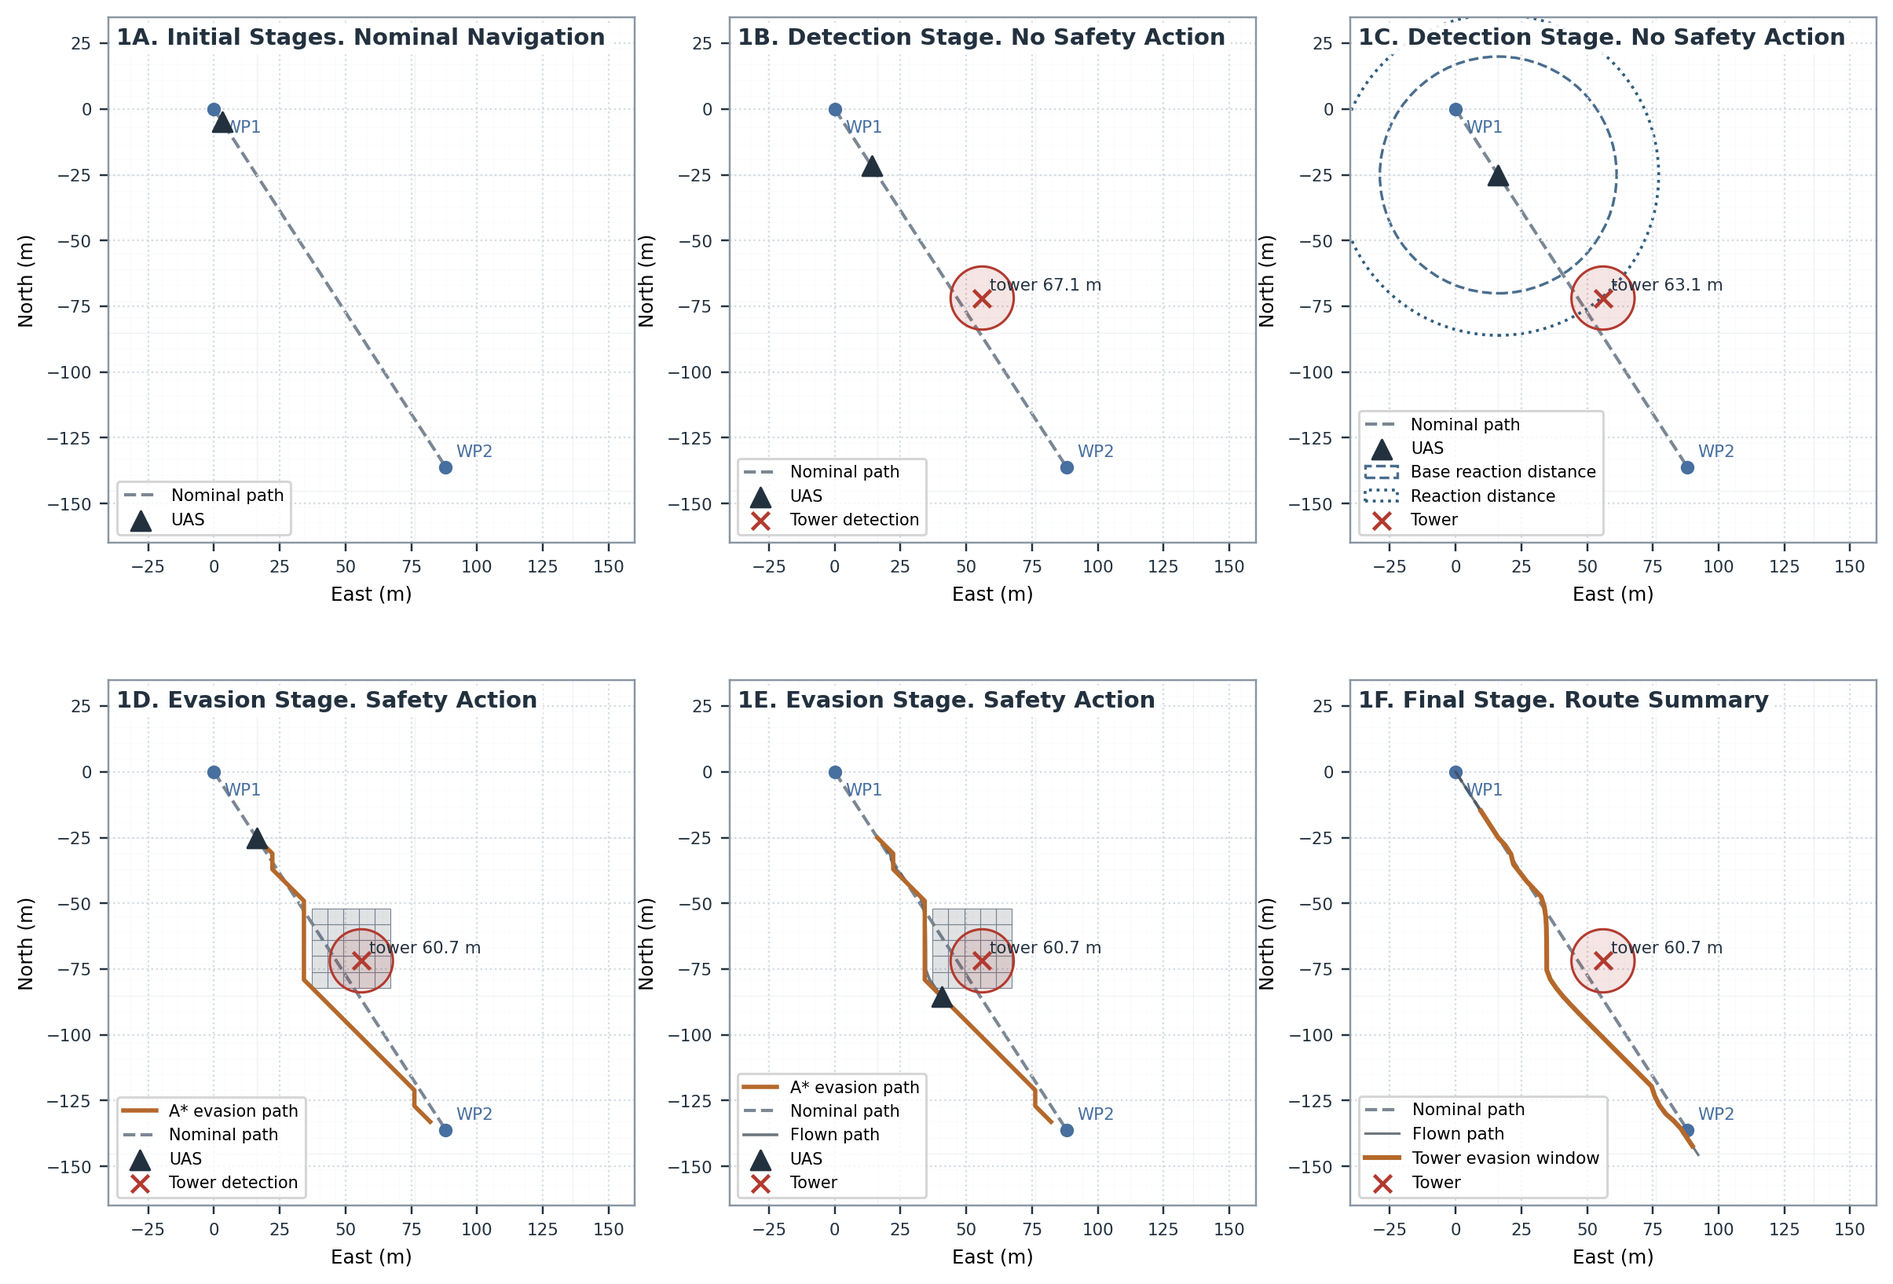
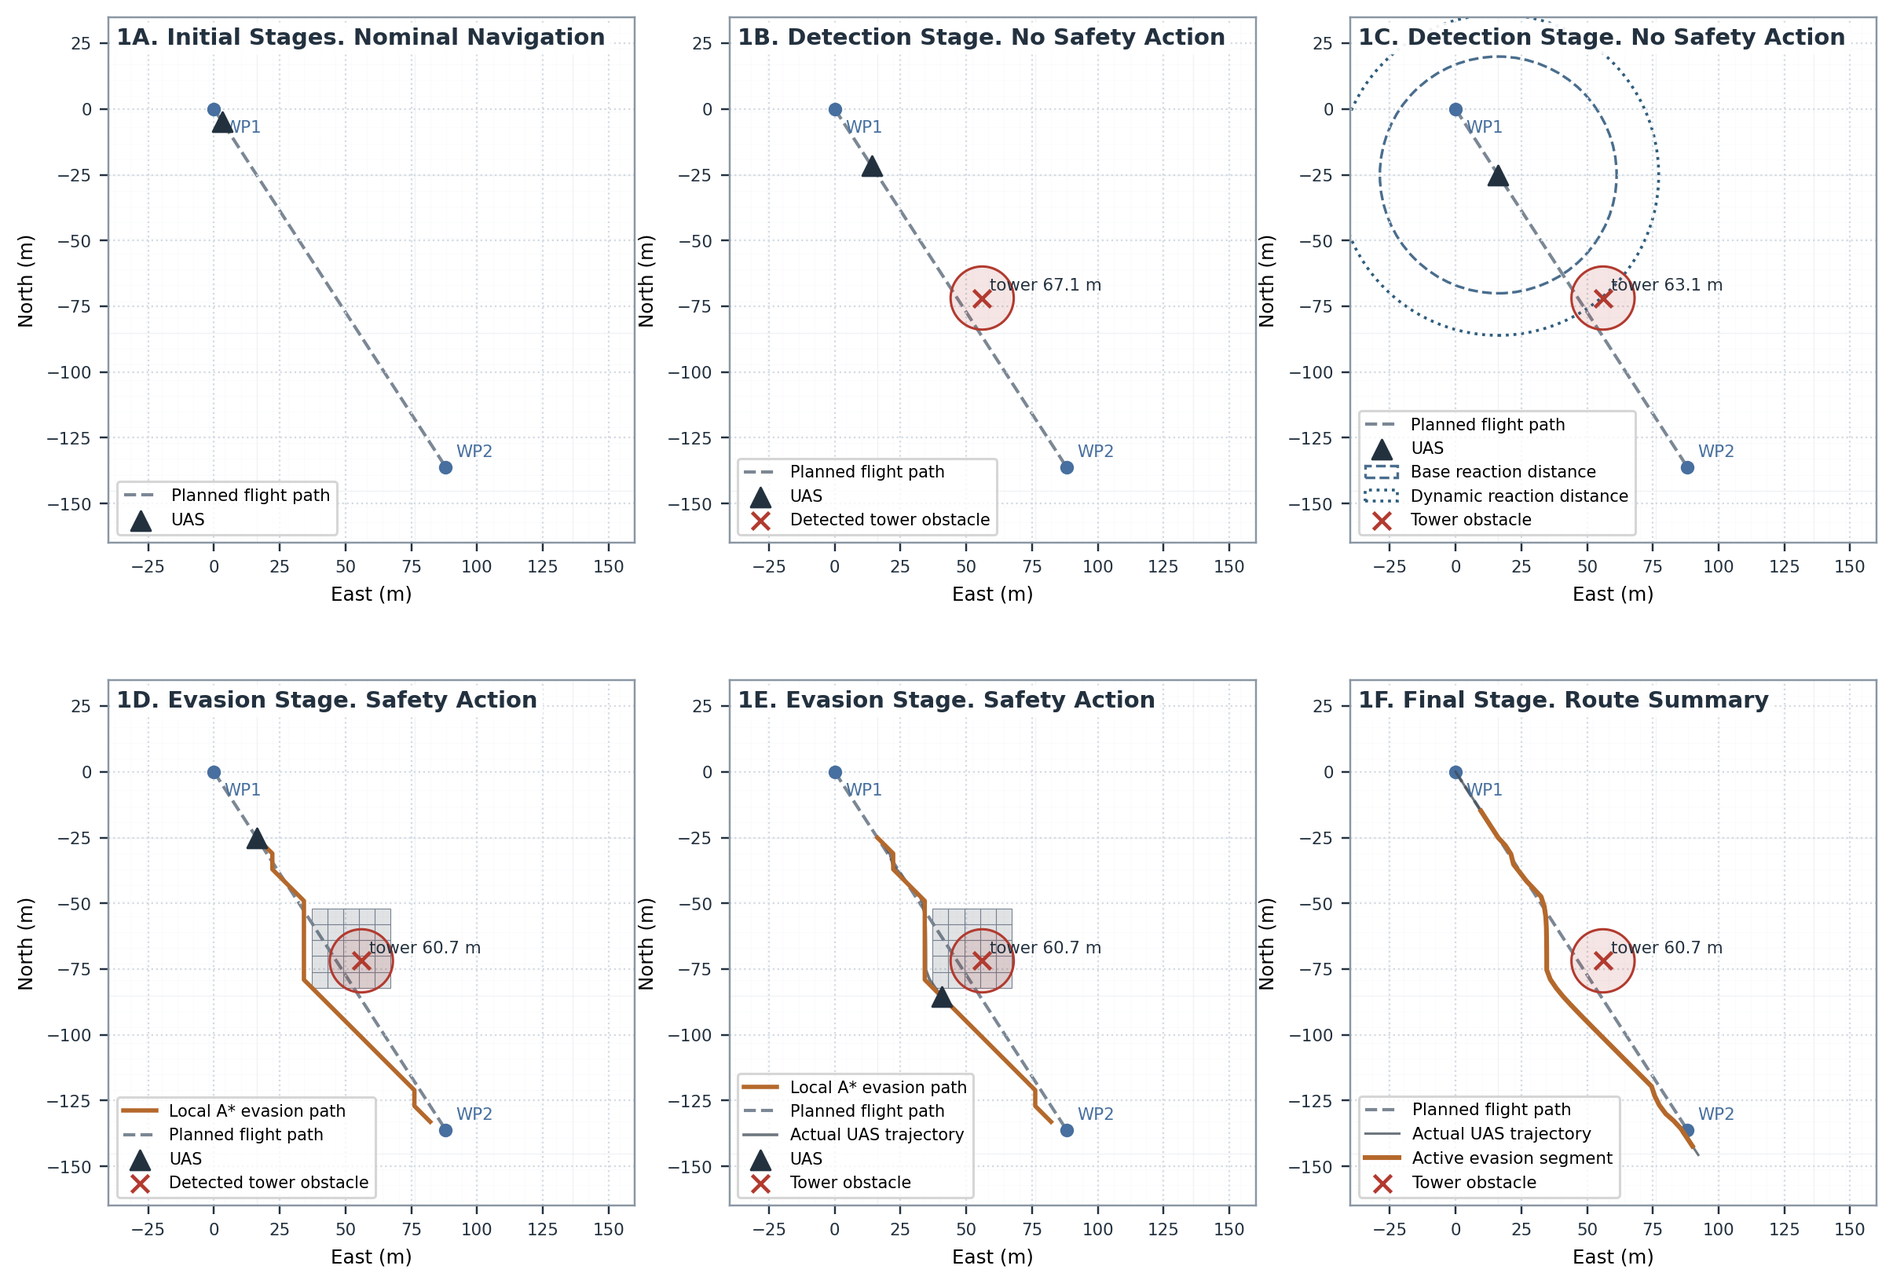
Align figure legends with paper terminology

diff --git a/figuras_paper_unreal_generadas/generate_paper_figures.py b/figuras_paper_unreal_generadas/generate_paper_figures.py
@@ -43,6 +43,17 @@ TOWER = "#b23a2f"
 BIKE = "#256f8f"
 GRID = "#d4dbe2"
 
+LABEL_PLANNED_PATH = "Planned flight path"
+LABEL_ACTUAL_TRAJECTORY = "Actual UAS trajectory"
+LABEL_LOCAL_EVASION_PATH = "Local A* evasion path"
+LABEL_ACTIVE_EVASION = "Active evasion segment"
+LABEL_UAS = "UAS"
+LABEL_DETECTED_TOWER = "Detected tower obstacle"
+LABEL_TOWER = "Tower obstacle"
+LABEL_DYNAMIC_REACTION = "Dynamic reaction distance"
+LABEL_BASE_REACTION = "Base reaction distance"
+LABEL_PELOTON_POSITIONS = "Peloton positions over time"
+
 FIG1_XLIM = (-40.0, 160.0)
 FIG1_YLIM = (-165.0, 35.0)
 FIG1_PANEL_FIGSIZE = (5.8, 5.8)
@@ -197,7 +208,7 @@ def draw_unreal_panel(ax, image_path: Path | None, panel: str, title: str, note:
     )
 
 
-def plot_mission(ax, mission_xy: np.ndarray, label: str = "Nominal path") -> None:
+def plot_mission(ax, mission_xy: np.ndarray, label: str = LABEL_PLANNED_PATH) -> None:
     ax.plot(mission_xy[:, 0], mission_xy[:, 1], "--", color=NOMINAL, linewidth=1.2, label=label, zorder=1)
     plotted_labels: dict[tuple[float, float], list[str]] = {}
     for i, (x, y) in enumerate(mission_xy):
@@ -220,7 +231,7 @@ def mission_xy_for_ref(lat_ref: float, lon_ref: float, mission: list[dict]) -> n
 def plot_wp1_wp2_segment(ax, mission: list[dict], lat_ref: float, lon_ref: float) -> np.ndarray:
     idxs = [1, 2]
     pts = np.array([latlon_to_enu(lat_ref, lon_ref, mission[i]["lat"], mission[i]["lon"]) for i in idxs])
-    ax.plot(pts[:, 0], pts[:, 1], "--", color=NOMINAL, linewidth=1.35, label="Nominal path", zorder=1)
+    ax.plot(pts[:, 0], pts[:, 1], "--", color=NOMINAL, linewidth=1.35, label=LABEL_PLANNED_PATH, zorder=1)
     ax.scatter(pts[:, 0], pts[:, 1], s=22, color="#476f9f", zorder=2)
     for idx, (x, y) in zip(idxs, pts):
         dy = -9 if idx == 1 else 4
@@ -362,7 +373,7 @@ def draw_grid(
             )
         )
     if route_xy:
-        ax.plot([p[0] for p in route_xy], [p[1] for p in route_xy], color=EVASION, linewidth=1.8, zorder=5, label="A* evasion path")
+        ax.plot([p[0] for p in route_xy], [p[1] for p in route_xy], color=EVASION, linewidth=1.8, zorder=5, label=LABEL_LOCAL_EVASION_PATH)
 
 def select_unique_obstacle(obs: list[dict]) -> list[dict]:
     valid = [item for item in obs if math.isfinite(float(item.get("distance", float("nan"))))]
@@ -373,12 +384,12 @@ def select_unique_obstacle(obs: list[dict]) -> list[dict]:
 def add_grid_background(ax, origin_xy: tuple[float, float] = (0.0, 0.0)) -> None:
     draw_grid(ax, set(), [], [], origin_xy=origin_xy)
 
-def plot_local_mission(ax, mission: list[dict], lat_ref: float, lon_ref: float, label: str = "Nominal path") -> np.ndarray:
+def plot_local_mission(ax, mission: list[dict], lat_ref: float, lon_ref: float, label: str = LABEL_PLANNED_PATH) -> np.ndarray:
     mission_xy = mission_xy_for_ref(lat_ref, lon_ref, mission)
     plot_mission(ax, mission_xy, label=label)
     return mission_xy
 
-def add_uas(ax, label: str = "UAS") -> None:
+def add_uas(ax, label: str = LABEL_UAS) -> None:
     ax.scatter([0], [0], marker="^", s=65, color=INK, zorder=9, label=label)
 
 def prepare_static_context() -> dict:
@@ -502,7 +513,7 @@ def build_static_figure() -> dict:
         add_grid_background(ax, origin_xy=plan_origin_xy)
         plot_wp1_wp2_segment(ax, mission, d["lat_ref"], d["lon_ref"])
         init_xy = latlon_to_enu(d["lat_ref"], d["lon_ref"], float(init_row["lat"]), float(init_row["lon"]))
-        ax.scatter([init_xy[0]], [init_xy[1]], marker="^", s=65, color=INK, zorder=9, label="UAS")
+        ax.scatter([init_xy[0]], [init_xy[1]], marker="^", s=65, color=INK, zorder=9, label=LABEL_UAS)
         draw_label(ax, "1A", "Initial Stages. Nominal Navigation")
         style_ax(ax)
         apply_figure1_view(ax)
@@ -511,7 +522,7 @@ def build_static_figure() -> dict:
     def draw_detection(ax, panel: str, with_reaction_radii: bool, evt: dict, xy: tuple[float, float], obs: list[dict]) -> None:
         add_grid_background(ax, origin_xy=plan_origin_xy)
         plot_wp1_wp2_segment(ax, mission, d["lat_ref"], d["lon_ref"])
-        ax.scatter([xy[0]], [xy[1]], marker="^", s=65, color=INK, zorder=9, label="UAS")
+        ax.scatter([xy[0]], [xy[1]], marker="^", s=65, color=INK, zorder=9, label=LABEL_UAS)
         if with_reaction_radii:
             ax.add_patch(
                 patches.Circle(
@@ -521,7 +532,7 @@ def build_static_figure() -> dict:
                     linestyle="--",
                     edgecolor="#496d8d",
                     linewidth=1.1,
-                    label="Base reaction distance",
+                    label=LABEL_BASE_REACTION,
                 )
             )
             ax.add_patch(
@@ -532,10 +543,10 @@ def build_static_figure() -> dict:
                     linestyle=":",
                     edgecolor="#2f5d7c",
                     linewidth=1.2,
-                    label="Reaction distance",
+                    label=LABEL_DYNAMIC_REACTION,
                 )
             )
-        draw_obstacles(ax, obs, TOWER, radius=True, label="Tower detection" if not with_reaction_radii else "Tower")
+        draw_obstacles(ax, obs, TOWER, radius=True, label=LABEL_DETECTED_TOWER if not with_reaction_radii else LABEL_TOWER)
         draw_label(ax, panel, "Detection Stage. No Safety Action")
         style_ax(ax)
         apply_figure1_view(ax)
@@ -546,8 +557,8 @@ def build_static_figure() -> dict:
         plot_wp1_wp2_segment(ax, mission, d["lat_ref"], d["lon_ref"])
         if show_flown:
             flown = traj[(traj["ts"] >= float(evasion_evt["ts"])) & (traj["ts"] <= float(d["mid_evasion_row"]["ts"]))]
-            ax.plot(flown["east"], flown["north"], color=FLOWN, linewidth=1.2, alpha=0.75, label="Flown path")
-        ax.scatter([uas_xy[0]], [uas_xy[1]], marker="^", s=65, color=INK, zorder=9, label="UAS")
+            ax.plot(flown["east"], flown["north"], color=FLOWN, linewidth=1.2, alpha=0.75, label=LABEL_ACTUAL_TRAJECTORY)
+        ax.scatter([uas_xy[0]], [uas_xy[1]], marker="^", s=65, color=INK, zorder=9, label=LABEL_UAS)
         draw_obstacles(ax, eva_obs, TOWER, radius=True, label=tower_label)
         draw_label(ax, panel, "Evasion Stage. Safety Action")
         style_ax(ax)
@@ -557,11 +568,11 @@ def build_static_figure() -> dict:
     def draw_summary(ax) -> None:
         add_grid_background(ax, origin_xy=plan_origin_xy)
         plot_wp1_wp2_segment(ax, mission, d["lat_ref"], d["lon_ref"])
-        ax.plot(traj["east"], traj["north"], color=FLOWN, linewidth=1.0, alpha=0.75, label="Flown path")
+        ax.plot(traj["east"], traj["north"], color=FLOWN, linewidth=1.0, alpha=0.75, label=LABEL_ACTUAL_TRAJECTORY)
         tower_window = traj[(traj["ts"] >= float(evasion_evt["ts"]) - 2) & (traj["ts"] <= float(d["completion_evt"]["ts"]) + 2)]
         if len(tower_window):
-            ax.plot(tower_window["east"], tower_window["north"], color=EVASION, linewidth=2.0, label="Tower evasion window")
-        draw_obstacles(ax, eva_obs, TOWER, radius=True, label="Tower")
+            ax.plot(tower_window["east"], tower_window["north"], color=EVASION, linewidth=2.0, label=LABEL_ACTIVE_EVASION)
+        draw_obstacles(ax, eva_obs, TOWER, radius=True, label=LABEL_TOWER)
         draw_label(ax, "1F", "Final Stage. Route Summary")
         style_ax(ax)
         apply_figure1_view(ax)
@@ -570,8 +581,8 @@ def build_static_figure() -> dict:
     draw_nominal(ax1)
     draw_detection(ax2, "1B", with_reaction_radii=False, evt=detect_evt, xy=d["detect_xy"], obs=det_obs)
     draw_detection(ax3, "1C", with_reaction_radii=True, evt=d["detection_detail_evt"], xy=d["detect_detail_xy"], obs=d["det_detail_obs"])
-    draw_evasion(ax4, "1D", "Tower detection", plan_origin_xy)
-    draw_evasion(ax5, "1E", "Tower", d["mid_evasion_xy"], show_flown=True)
+    draw_evasion(ax4, "1D", LABEL_DETECTED_TOWER, plan_origin_xy)
+    draw_evasion(ax5, "1E", LABEL_TOWER, d["mid_evasion_xy"], show_flown=True)
     draw_summary(ax6)
 
     out = OUT / "figure_1_static_tower_multipanel.png"
@@ -634,19 +645,19 @@ def build_moving_figure() -> dict:
 
     plot_mission(ax2, mission_xy)
     local = traj[(traj["ts"] >= float(route_evt["ts"]) - 6) & (traj["ts"] <= float(route_evt["ts"]) + 25)]
-    ax2.plot(local["east"], local["north"], color=FLOWN, linewidth=1.2, label="UAS path")
+    ax2.plot(local["east"], local["north"], color=FLOWN, linewidth=1.2, label=LABEL_ACTUAL_TRAJECTORY)
     if snapshots:
-        sc = ax2.scatter([s["east"] for s in snapshots], [s["north"] for s in snapshots], c=[s["t"] for s in snapshots], cmap="viridis", s=28, marker="x", label="Peloton ghost positions", zorder=8)
+        sc = ax2.scatter([s["east"] for s in snapshots], [s["north"] for s in snapshots], c=[s["t"] for s in snapshots], cmap="viridis", s=28, marker="x", label=LABEL_PELOTON_POSITIONS, zorder=8)
         plt.colorbar(sc, ax=ax2, fraction=0.045, pad=0.02).set_label("t rel. (s)", fontsize=7)
     draw_label(ax2, "2B", "UAS and Peloton Motion")
     style_ax(ax2)
     ax2.legend(loc="lower right", fontsize=7)
 
     plot_mission(ax3, mission_xy)
-    ax3.plot(local["east"], local["north"], color=FLOWN, linewidth=1.0, alpha=0.7, label="Flown path")
+    ax3.plot(local["east"], local["north"], color=FLOWN, linewidth=1.0, alpha=0.7, label=LABEL_ACTUAL_TRAJECTORY)
     active = local[local["evasion_active"] == 1]
     if len(active):
-        ax3.plot(active["east"], active["north"], color=EVASION, linewidth=2.0, label="PORCE active")
+        ax3.plot(active["east"], active["north"], color=EVASION, linewidth=2.0, label=LABEL_ACTIVE_EVASION)
     if snapshots:
         sc2 = ax3.scatter([s["east"] for s in snapshots], [s["north"] for s in snapshots], c=[s["t"] for s in snapshots], cmap="viridis", s=18, marker="x", alpha=0.7, zorder=7)
     draw_label(ax3, "2C", "Moving Obstacle Evasion Summary")

diff --git a/figuras_paper_unreal_generadas/generate_figure1_separate_panels.py b/figuras_paper_unreal_generadas/generate_figure1_separate_panels.py
@@ -63,7 +63,7 @@ def main() -> None:
     init_row = early.iloc[-1] if len(early) else d["det_row"]
     _base_panel(ax, d)
     init_xy = g.latlon_to_enu(d["lat_ref"], d["lon_ref"], float(init_row["lat"]), float(init_row["lon"]))
-    ax.scatter([init_xy[0]], [init_xy[1]], marker="^", s=65, color=g.INK, zorder=9, label="UAS")
+    ax.scatter([init_xy[0]], [init_xy[1]], marker="^", s=65, color=g.INK, zorder=9, label=g.LABEL_UAS)
     g.draw_label(ax, "1A", "Initial Stages. Nominal Navigation")
     g.style_ax(ax)
     g.apply_figure1_view(ax)
@@ -72,8 +72,8 @@ def main() -> None:
 
     fig, ax = plt.subplots(figsize=g.FIG1_PANEL_FIGSIZE)
     _base_panel(ax, d)
-    ax.scatter([d["detect_xy"][0]], [d["detect_xy"][1]], marker="^", s=65, color=g.INK, zorder=9, label="UAS")
-    g.draw_obstacles(ax, d["det_obs"], g.TOWER, radius=True, label="Tower detection")
+    ax.scatter([d["detect_xy"][0]], [d["detect_xy"][1]], marker="^", s=65, color=g.INK, zorder=9, label=g.LABEL_UAS)
+    g.draw_obstacles(ax, d["det_obs"], g.TOWER, radius=True, label=g.LABEL_DETECTED_TOWER)
     g.draw_label(ax, "1B", "Detection Stage. No Safety Action")
     g.style_ax(ax)
     g.apply_figure1_view(ax)
@@ -83,7 +83,7 @@ def main() -> None:
     fig, ax = plt.subplots(figsize=g.FIG1_PANEL_FIGSIZE)
     _base_panel(ax, d)
     det_xy = d["detect_detail_xy"]
-    ax.scatter([det_xy[0]], [det_xy[1]], marker="^", s=60, color=g.INK, zorder=8, label="UAS")
+    ax.scatter([det_xy[0]], [det_xy[1]], marker="^", s=60, color=g.INK, zorder=8, label=g.LABEL_UAS)
     ax.add_patch(
         plt.Circle(
             det_xy,
@@ -92,7 +92,7 @@ def main() -> None:
             linestyle="--",
             edgecolor="#496d8d",
             linewidth=1.1,
-            label="Base reaction distance",
+            label=g.LABEL_BASE_REACTION,
         )
     )
     ax.add_patch(
@@ -103,10 +103,10 @@ def main() -> None:
             linestyle=":",
             edgecolor="#2f5d7c",
             linewidth=1.2,
-            label="Reaction distance",
+            label=g.LABEL_DYNAMIC_REACTION,
         )
     )
-    g.draw_obstacles(ax, d["det_detail_obs"], g.TOWER, radius=True, label="Tower")
+    g.draw_obstacles(ax, d["det_detail_obs"], g.TOWER, radius=True, label=g.LABEL_TOWER)
     g.draw_label(ax, "1C", "Detection Stage. No Safety Action")
     g.style_ax(ax)
     g.apply_figure1_view(ax)
@@ -115,8 +115,8 @@ def main() -> None:
 
     fig, ax = plt.subplots(figsize=g.FIG1_PANEL_FIGSIZE)
     _base_panel(ax, d, route=True)
-    ax.scatter([d["plan_origin_xy"][0]], [d["plan_origin_xy"][1]], marker="^", s=65, color=g.INK, zorder=9, label="UAS")
-    g.draw_obstacles(ax, d["eva_obs"], g.TOWER, radius=True, label="Tower detection")
+    ax.scatter([d["plan_origin_xy"][0]], [d["plan_origin_xy"][1]], marker="^", s=65, color=g.INK, zorder=9, label=g.LABEL_UAS)
+    g.draw_obstacles(ax, d["eva_obs"], g.TOWER, radius=True, label=g.LABEL_DETECTED_TOWER)
     g.draw_label(ax, "1D", "Evasion Stage. Safety Action")
     g.style_ax(ax)
     g.apply_figure1_view(ax)
@@ -126,9 +126,9 @@ def main() -> None:
     fig, ax = plt.subplots(figsize=g.FIG1_PANEL_FIGSIZE)
     _base_panel(ax, d, route=True)
     flown = traj[(traj["ts"] >= float(d["evasion_evt"]["ts"])) & (traj["ts"] <= float(d["mid_evasion_row"]["ts"]))]
-    ax.plot(flown["east"], flown["north"], color=g.FLOWN, linewidth=1.2, alpha=0.75, label="Flown path")
-    ax.scatter([d["mid_evasion_xy"][0]], [d["mid_evasion_xy"][1]], marker="^", s=65, color=g.INK, zorder=9, label="UAS")
-    g.draw_obstacles(ax, d["eva_obs"], g.TOWER, radius=True, label="Tower")
+    ax.plot(flown["east"], flown["north"], color=g.FLOWN, linewidth=1.2, alpha=0.75, label=g.LABEL_ACTUAL_TRAJECTORY)
+    ax.scatter([d["mid_evasion_xy"][0]], [d["mid_evasion_xy"][1]], marker="^", s=65, color=g.INK, zorder=9, label=g.LABEL_UAS)
+    g.draw_obstacles(ax, d["eva_obs"], g.TOWER, radius=True, label=g.LABEL_TOWER)
     g.draw_label(ax, "1E", "Evasion Stage. Safety Action")
     g.style_ax(ax)
     g.apply_figure1_view(ax)
@@ -137,11 +137,11 @@ def main() -> None:
 
     fig, ax = plt.subplots(figsize=g.FIG1_PANEL_FIGSIZE)
     _base_panel(ax, d)
-    ax.plot(traj["east"], traj["north"], color=g.FLOWN, linewidth=1.0, alpha=0.75, label="Flown path")
+    ax.plot(traj["east"], traj["north"], color=g.FLOWN, linewidth=1.0, alpha=0.75, label=g.LABEL_ACTUAL_TRAJECTORY)
     tower_window = traj[(traj["ts"] >= float(d["evasion_evt"]["ts"]) - 2) & (traj["ts"] <= float(d["completion_evt"]["ts"]) + 2)]
     if len(tower_window):
-        ax.plot(tower_window["east"], tower_window["north"], color=g.EVASION, linewidth=2.0, label="Tower evasion window")
-    g.draw_obstacles(ax, d["eva_obs"], g.TOWER, radius=True, label="Tower")
+        ax.plot(tower_window["east"], tower_window["north"], color=g.EVASION, linewidth=2.0, label=g.LABEL_ACTIVE_EVASION)
+    g.draw_obstacles(ax, d["eva_obs"], g.TOWER, radius=True, label=g.LABEL_TOWER)
     g.draw_label(ax, "1F", "Final Stage. Route Summary")
     g.style_ax(ax)
     g.apply_figure1_view(ax)

diff --git a/figuras_paper_unreal_generadas/README.md b/figuras_paper_unreal_generadas/README.md
@@ -16,12 +16,9 @@ Esta carpeta contiene las figuras compuestas pedidas en la conversacion.
 
 - `tools/make_viz_gif_manual.py` no crea el multipanel: crea un GIF a partir de `pipeline/logs/viz_frames/frame_*.png`.
 - El multipanel historico se generaba en `generate_paper_assets.py`, funcion `build_six_stage_sequence_figure(...)`.
-- La Figura 1 generada aqui usa un episodio continuo WP1->WP2 con una unica torre del run `pipeline/logs/paper_wp1_wp2_tower/paper_wp1_wp2_tower_p0.56_l+8.0_20260617_120539`.
-- La torre usada esta en `lat=42.22904865463611`, `lon=-1.234404232738992`, progreso `0.56` del tramo WP1->WP2 y desplazamiento lateral `+8 m`.
-- Orden activo de lectura: `1A` navegacion nominal, `1B` deteccion sin accion cerca del umbral, `1C` ultima deteccion sin accion con radios, `1D` inicio de evasion A*, `1E` evasion en curso, `1F` resumen final de ruta.
+- La Figura 1 generada aqui usa un episodio continuo con torre del run `20260220_112052`; todos los paneles corresponden a la misma torre y se ordenan como secuencia temporal.
+- Orden activo de lectura: `1A` navegacion nominal, `1B` deteccion sin accion, `1C` detalle de deteccion con radios, `1D` evasion activa, `1E` detalle/grid de evasion, `1F` resumen final de ruta.
 - Decision actual: los seis paneles de Figura 1 deben ser cenitales/top-down, con el grid real `81 x 81` superpuesto y deteccion unica de torre. `1B` y `1C` ya no deben ser capturas oblicuas Unreal/HUD.
-- Los seis paneles usan el mismo encuadre fijo activo: eje X `[-40, 160]` m y eje Y `[-165, 35]` m, con las mismas etiquetas `East (m)` y `North (m)`. Es un encuadre cuadrado `1:1` de 200 m x 200 m centrado en el tramo WP1->WP2, con mas aire por encima de WP1 y menos espacio muerto bajo WP2.
-- `1B` usa una deteccion sin accion a `67.1 m`; `1C` usa la ultima deteccion sin accion a `63.1 m`, justo antes de generar la evasion al cruzar `reaction_distance_eval_m=61 m`.
-- Validacion del run: `accepted_types=["tower"]`, `clean_detection_count=9`, `valid_plan_count=1`, `valid_completion_count=1`, `failure_count=0`, evasion activa de progreso `0.2085` a `0.9412` antes de WP2.
+- Los seis paneles usan el mismo encuadre fijo activo: eje X `[-200, 400]` m y eje Y `[-400, 200]` m, con las mismas etiquetas `East (m)` y `North (m)`. Es un encuadre cuadrado `1:1` centrado para aprovechar la diagonal `WP0/WP1` a `WP4`.
 - La version amplia anterior se conserva como contexto en `figure_1_panels_wide_context/`, `figure_1_static_tower_multipanel_wide_context.png` y `figure_1_panels_contact_sheet_wide_context.png`.
 - La version cercana anterior se conserva como contexto en `figure_1_panels_close_context/`, `figure_1_static_tower_multipanel_close_context.png` y `figure_1_panels_contact_sheet_close_context.png`.

diff --git a/FIGURA_1_PAPER_UNREAL_ESPECIFICACION.md b/FIGURA_1_PAPER_UNREAL_ESPECIFICACION.md
@@ -71,6 +71,18 @@ Por tanto, la nueva Figura 1 parece compactar esas etapas en una unica figura mu
 - Panel `1C`: ultima deteccion sin accion a `63.1 m`, justo antes de generar evasion al cruzar `reaction_distance_eval_m = 61 m`.
 - La torre se muestra en `1B` porque ya existe como obstaculo activo detectado (`obs_fresh=True`, `obs_count=1`). No estamos dibujando el rango fisico/sensorial de deteccion de YOLO; los circulos de `1C` son distancias de reaccion/control, no el alcance de la camara.
 
+## Vocabulario de leyendas alineado con el paper
+
+Las figuras no deben exponer nombres internos del codigo si el paper usa una formulacion mas clara. Equivalencias activas:
+
+- `Nominal path` o `nominal_route` en codigo -> `Planned flight path`.
+- `Flown path` en generadores/logs -> `Actual UAS trajectory`.
+- `evasion_path` -> `Local A* evasion path`.
+- `evasion_active` / ventana PORCE -> `Active evasion segment`.
+- `reaction_distance_eval_m` -> `Dynamic reaction distance`.
+- `reaction_distance_base_m` -> `Base reaction distance`.
+- `tower` -> `Tower obstacle` o `Detected tower obstacle` cuando se quiere enfatizar el estado de deteccion.
+
 ## Trazabilidad tecnica
 
 ### Mision nominal y waypoints
@@ -209,7 +221,7 @@ Base tecnica:
 
 Decision activa:
 
-- Se muestran `Base reaction distance` y `Reaction distance`; el radio duro `R_s` sigue representado alrededor de la torre.
+- Se muestran `Base reaction distance` y `Dynamic reaction distance`; el radio duro `R_s` sigue representado alrededor de la torre.
 
 ### 1D - Cenital: evasion activa
 
